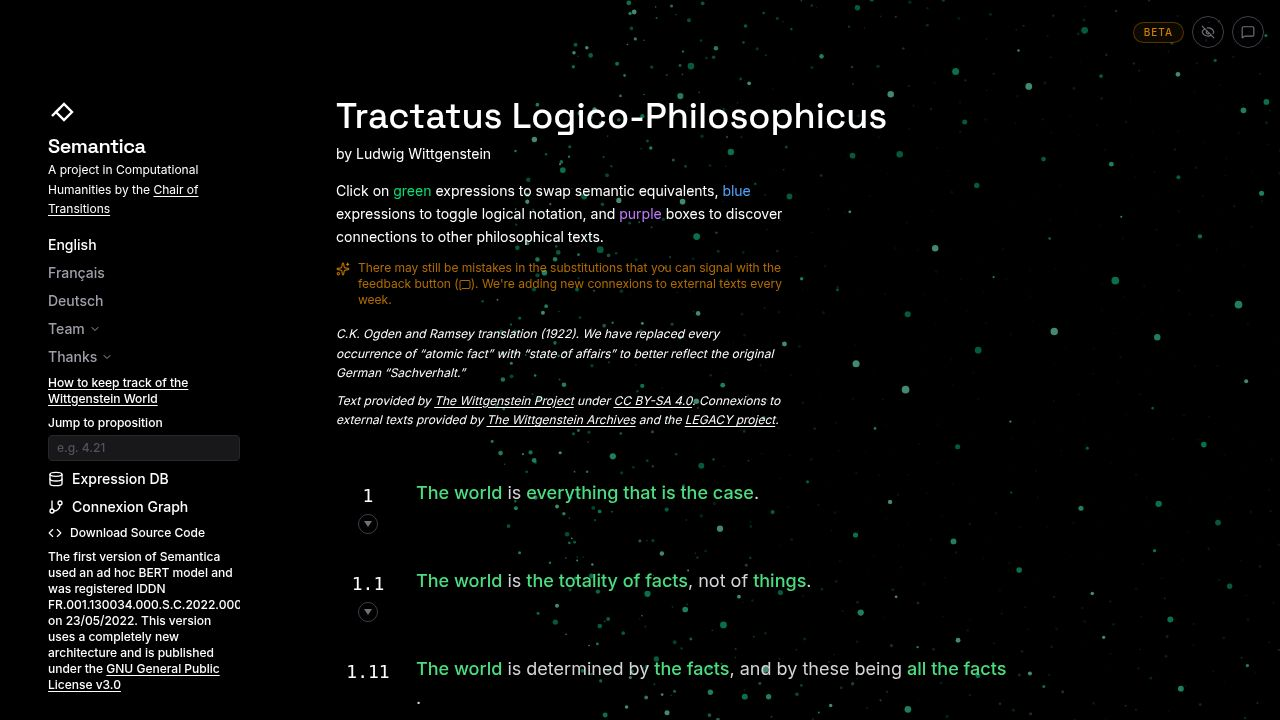
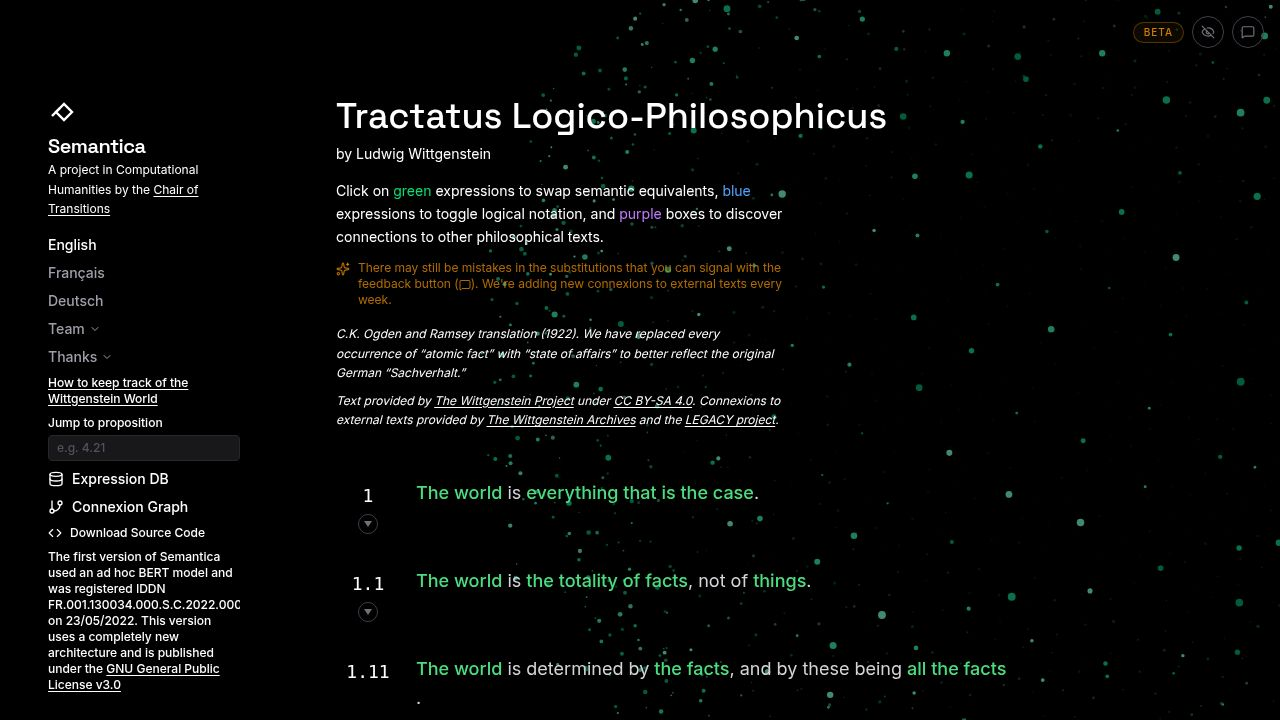
Add animated connections between particles in the background sphere
Updates the StarSphere component to introduce dynamic, time-based connections between particles, with approximately 5% of particles forming transient connections every 10 seconds, enhancing the visual dynamism of the background.

Replit-Commit-Author: Agent
Replit-Commit-Session-Id: 3d3c5ee8-30ca-449f-a36a-2a26b9467d3a
Replit-Commit-Checkpoint-Type: full_checkpoint
Replit-Commit-Event-Id: 8aca4c52-3ed6-42a1-90e1-384e4fc9b486
Replit-Commit-Screenshot-Url: https://storage.googleapis.com/screenshot-production-us-central1/2c497065-9d4a-4f02-8f2e-021a778ebca1/3d3c5ee8-30ca-449f-a36a-2a26b9467d3a/Gcimbo6
Replit-Helium-Checkpoint-Created: true

diff --git a/client/src/components/StarSphere.tsx b/client/src/components/StarSphere.tsx
@@ -13,7 +13,6 @@ export default function StarSphere() {
     let width = canvas.clientWidth;
     let height = canvas.clientHeight;
     
-    // Support high DPI displays
     const dpr = window.devicePixelRatio || 1;
     canvas.width = width * dpr;
     canvas.height = height * dpr;
@@ -23,15 +22,11 @@ export default function StarSphere() {
     const particleCount = 2000;
     const sphereRadius = Math.min(width, height) * 0.4;
     
-    // Teal/Greenish colors for the particles to match the semantic green
     const colors = ['#10b981', '#34d399', '#059669', '#6ee7b7'];
 
     for (let i = 0; i < particleCount; i++) {
-      // Golden ratio spiral for even distribution
       const phi = Math.acos(-1 + (2 * i) / particleCount);
       const theta = Math.sqrt(particleCount * Math.PI) * phi;
-
-      // Add a bit of noise to the radius so it's not a perfect shell
       const r = sphereRadius * (0.95 + Math.random() * 0.1);
 
       particles.push({
@@ -47,13 +42,63 @@ export default function StarSphere() {
     let rotationY = 0;
     let animationFrameId: number;
 
+    interface Connection {
+      i: number;
+      j: number;
+      birth: number;
+      duration: number;
+    }
+
+    let activeConnections: Connection[] = [];
+    const connectionInterval = 10000;
+    const connectionDuration = 3000;
+    const connectionFraction = 0.05;
+    let lastConnectionTime = performance.now() - connectionInterval + 2000;
+
+    const spawnConnections = (now: number, projected: {x: number; y: number; z: number; idx: number}[]) => {
+      const count = Math.floor(particleCount * connectionFraction * 0.5);
+      const newConns: Connection[] = [];
+      const maxDist = sphereRadius * 0.35;
+
+      for (let c = 0; c < count; c++) {
+        const i = Math.floor(Math.random() * projected.length);
+        const pi = projected[i];
+        let bestJ = -1;
+        let bestDist = maxDist;
+
+        for (let attempt = 0; attempt < 20; attempt++) {
+          const j = Math.floor(Math.random() * projected.length);
+          if (j === i) continue;
+          const pj = projected[j];
+          const dx = pi.x - pj.x;
+          const dy = pi.y - pj.y;
+          const dist = Math.sqrt(dx * dx + dy * dy);
+          if (dist < bestDist) {
+            bestDist = dist;
+            bestJ = j;
+          }
+        }
+
+        if (bestJ >= 0) {
+          newConns.push({
+            i: pi.idx,
+            j: projected[bestJ].idx,
+            birth: now,
+            duration: connectionDuration * (0.7 + Math.random() * 0.6)
+          });
+        }
+      }
+
+      activeConnections = activeConnections.concat(newConns);
+    };
+
     const render = () => {
+      const now = performance.now();
       ctx.clearRect(0, 0, width, height);
       
       const centerX = width / 2;
       const centerY = height / 2;
 
-      // Slow rotation
       rotationY += 0.002;
       rotationX += 0.001;
 
@@ -62,50 +107,73 @@ export default function StarSphere() {
       const cosY = Math.cos(rotationY);
       const sinY = Math.sin(rotationY);
 
-      // Sort particles by Z so closer ones are drawn last (and larger)
-      const projected = particles.map(p => {
-        // Rotate around X
+      const projected = particles.map((p, idx) => {
         const y1 = p.y * cosX - p.z * sinX;
         const z1 = p.y * sinX + p.z * cosX;
-
-        // Rotate around Y
         const x2 = p.x * cosY + z1 * sinY;
         const z2 = -p.x * sinY + z1 * cosY;
 
-        return {
-          x: x2,
-          y: y1,
-          z: z2,
-          size: p.size,
-          color: p.color
-        };
+        return { x: x2, y: y1, z: z2, size: p.size, color: p.color, idx };
       });
 
       projected.sort((a, b) => a.z - b.z);
 
+      const idxToScreen = new Map<number, {sx: number; sy: number; alpha: number}>();
+
       projected.forEach(p => {
-        // Perspective projection
         const scale = (sphereRadius * 2) / (sphereRadius * 2 - p.z);
-        
-        // Don't draw if too far behind
         if (scale < 0.2) return;
 
-        const x = centerX + p.x * scale;
-        const y = centerY + p.y * scale;
-        
-        // Size changes with perspective
+        const sx = centerX + p.x * scale;
+        const sy = centerY + p.y * scale;
         const s = p.size * scale;
-        
-        // Alpha changes with perspective (fade in back)
         const alpha = Math.max(0.1, Math.min(1, (p.z + sphereRadius) / (sphereRadius * 1.5)));
+
+        idxToScreen.set(p.idx, { sx, sy, alpha });
 
         ctx.globalAlpha = alpha;
         ctx.fillStyle = p.color;
         ctx.beginPath();
-        ctx.arc(x, y, s, 0, Math.PI * 2);
+        ctx.arc(sx, sy, s, 0, Math.PI * 2);
         ctx.fill();
       });
 
+      if (now - lastConnectionTime >= connectionInterval) {
+        lastConnectionTime = now;
+        spawnConnections(now, projected);
+      }
+
+      activeConnections = activeConnections.filter(c => now - c.birth < c.duration);
+
+      if (activeConnections.length > 0) {
+        for (const conn of activeConnections) {
+          const a = idxToScreen.get(conn.i);
+          const b = idxToScreen.get(conn.j);
+          if (!a || !b) continue;
+
+          const age = now - conn.birth;
+          const t = age / conn.duration;
+          let lineAlpha: number;
+          if (t < 0.2) {
+            lineAlpha = t / 0.2;
+          } else if (t > 0.7) {
+            lineAlpha = (1 - t) / 0.3;
+          } else {
+            lineAlpha = 1;
+          }
+          lineAlpha *= 0.25 * Math.min(a.alpha, b.alpha);
+
+          ctx.globalAlpha = lineAlpha;
+          ctx.strokeStyle = '#34d399';
+          ctx.lineWidth = 0.5;
+          ctx.beginPath();
+          ctx.moveTo(a.sx, a.sy);
+          ctx.lineTo(b.sx, b.sy);
+          ctx.stroke();
+        }
+      }
+
+      ctx.globalAlpha = 1;
       animationFrameId = requestAnimationFrame(render);
     };
 
